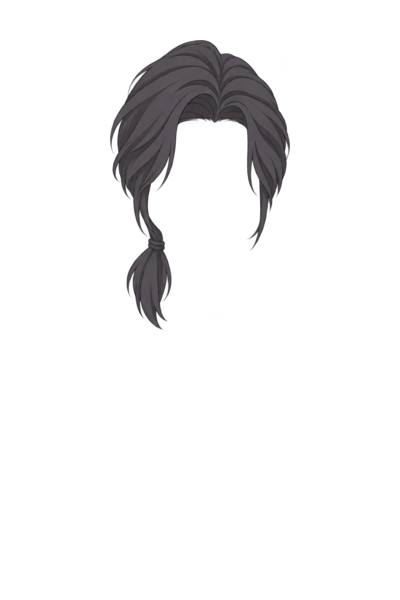
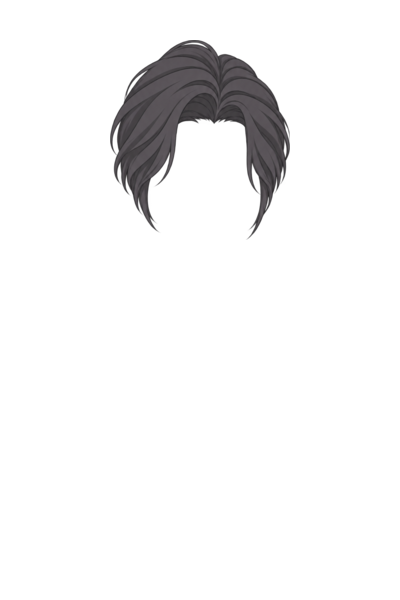
v0.75: [초상] 남성 H27 왼쪽 어깨 묶음머리 제거
윗머리 가르마와 무광 표현은 유지하고 어깨로 내려오는 묶음·끈을 제거한 원화로 교체한다. 앞·뒤 헤어에 동일하게 반영하고 캐시를 갱신한다. 체형·피부색·의상 60조합 합성 및 빌드 통과.

diff --git a/js/portrait_parts.js b/js/portrait_parts.js
@@ -1587,7 +1587,7 @@ const PortraitParts = (() => {
         400,
         600
       ],
-      "rearEndY": 330
+      "rearEndY": 240
     },
     {
       "file": "hair-m-28.webp",
@@ -3116,7 +3116,7 @@ const PortraitParts = (() => {
     const fitHead = markup => headScale === 1 ? markup : `<g data-proportion="head" transform="${headTransform}">${markup}</g>`;
     const cardHeight = underwear ? 440 : 480;
     const view = avatar ? `72 ${pose} 256 256` : `0 0 400 ${cardHeight}`;
-    const source = part => root + part.file + '?v=11';
+    const source = part => root + part.file + '?v=12';
     const image = (part, attrs = '') => {
       const [x,y,w,h] = part.rect, src = source(part);
       return `<image href="${src}" xlink:href="${src}" x="${x}" y="${y}" width="${w}" height="${h}"${part.opacity == null ? '' : ` opacity="${part.opacity}"`}${attrs}/>`;

diff --git a/index.html b/index.html
@@ -8,7 +8,7 @@
   <meta name="theme-color" content="#05080d">
   <link rel="preconnect" href="https://fonts.googleapis.com">
   <link rel="stylesheet" href="https://fonts.googleapis.com/css2?family=Black+Han+Sans&family=Chakra+Petch:wght@500;600;700&family=IBM+Plex+Sans+KR:wght@400;500;700&display=swap">
-  <link rel="stylesheet" href="dist/style.css?v=s2.0.74">
+  <link rel="stylesheet" href="dist/style.css?v=s2.0.75">
 </head>
 <body>
   <div id="app"></div>
@@ -26,6 +26,6 @@
       document.body.appendChild(d);
     });
   </script>
-  <script src="dist/game.js?v=s2.0.74"></script>
+  <script src="dist/game.js?v=s2.0.75"></script>
 </body>
 </html>

diff --git a/js/data.js b/js/data.js
@@ -1,5 +1,5 @@
 // 게임 버전 (화면 오른쪽 아래에 표시)
-const GAME_VERSION = '0.74';
+const GAME_VERSION = '0.75';
 
 // ===== 게이트 크로니클: 데이터 정의 =====
 // 귀곡팔황의 "경지"를 각성 등급으로, "오행"을 에테르 속성으로 옮겼다.

diff --git a/docs/비주얼_스타일_기준.md b/docs/비주얼_스타일_기준.md
@@ -90,6 +90,8 @@
 
 제외한 파츠는 화풍 참조로 사용하지 않는다. 새 생성과 저장 외형 모두에서 해당 파츠만 대체하고, 나머지 시드의 선택 결과와 등록 번호는 보존한다. 합격한 짧은 머리·은발·단발·묶음머리 등은 계속 사용한다.
 
+개별 헤어 수정 유지: 남성 `H27`은 화면 왼쪽 어깨로 내려오던 묶음머리·머리끈을 제거한 형태를 쓴다. 윗머리의 가르마와 무광 표현은 유지하고, 이후 재제작 시 어깨 묶음을 되살리지 않는다.
+
 ## 7. 재사용할 화풍 프롬프트
 
 참조 순서는 **수정할 장면 → 캐릭터 원화 2장 → 승인한 보정 컷 1장**을 기본으로 한다. 원화 참조는 화풍 기준이며 그 인물·자세·소품을 장면에 새로 넣으라는 뜻이 아니다. 실제 등장하는 고정 인물의 외형 참조는 별도로 추가한다.
